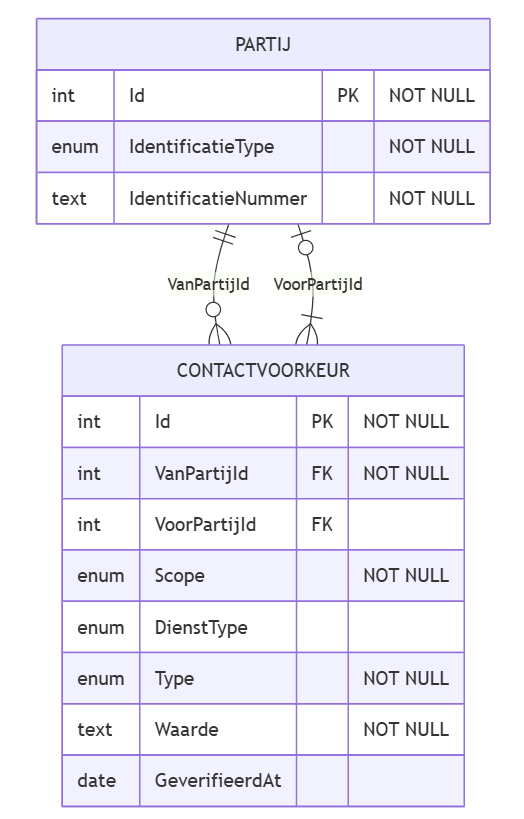
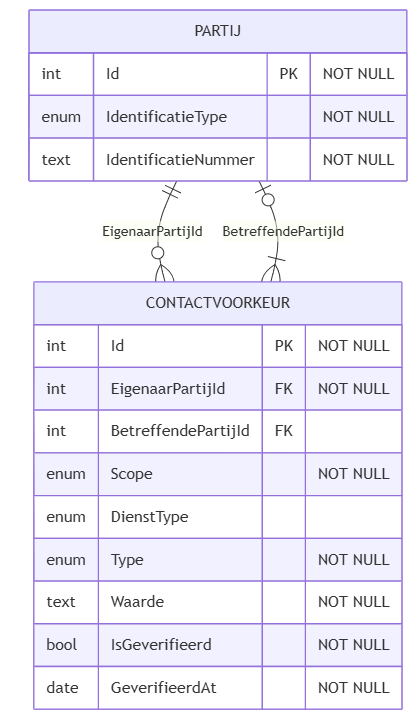
Van/Voor hernoemd
van/voor hernoemd naar eigenaar/betreffende

Changed region(s): [[0.0619, 0.0, 0.9905, 1.0]]

diff --git a/Docs/structurizr/profielservicedocs/06-software-architectuur.md b/Docs/structurizr/profielservicedocs/06-software-architectuur.md
@@ -23,17 +23,17 @@ Hieronder een tabel van definities die wij aanhouden binnen die entiteiten.
 
 <br/>
 
-| Attribuut       | Omschrijving                                                                           |
-| --------------- | -------------------------------------------------------------------------------------- |
-| CONTACTVOORKEUR |                                                                                        |
-| Id              | Unieke identificator van CONTACTVOORKEUR                                               |
-| VanPartijId     | Identificator van de eigenaar uit PARTIJ voor deze CONTACTVOORKEUR                     |
-| VoorPartijId    | Identificator op welke PARTIJ deze CONTACTVOORKEUR betrekking heeft                    |
-| Scope           | Het toepassingsgebied van deze CONTACTVOORKEUR, te weten: Burger of Zakelijk           |
-| DienstType      | Het organisatie-identificatienummer (OIN) waarop dit CONTACTVOORKEUR mogelijk kan zijn |
-| Type            | Het soort CONTACTVOORKEUR, te weten: e-mail of (mobiel) telefoonnummer                 |
-| Waarde          | De door de eigenaar opgegeven waarde voor het CONTACTVOORKEUR-Type                     |
-| GeverifieerdAt  | Datum waarop IsGeverifieerd voor het laatst is ingesteld                               |
+| Attribuut           | Omschrijving                                                                           |
+| ------------------- | -------------------------------------------------------------------------------------- |
+| CONTACTVOORKEUR     |                                                                                        |
+| Id                  | Unieke identificator van CONTACTVOORKEUR                                               |
+| EigenaarPartijId    | Identificator van de eigenaar uit PARTIJ voor deze CONTACTVOORKEUR                     |
+| BetreffendePartijId | Identificator op welke PARTIJ deze CONTACTVOORKEUR betrekking heeft                    |
+| Scope               | Het toepassingsgebied van deze CONTACTVOORKEUR, te weten: Burger of Zakelijk           |
+| DienstType          | Het organisatie-identificatienummer (OIN) waarop dit CONTACTVOORKEUR mogelijk kan zijn |
+| Type                | Het soort CONTACTVOORKEUR, te weten: e-mail of (mobiel) telefoonnummer                 |
+| Waarde              | De door de eigenaar opgegeven waarde voor het CONTACTVOORKEUR-Type                     |
+| GeverifieerdAt      | Datum waarop IsGeverifieerd voor het laatst is ingesteld                               |
 
 Het onderstaande diagram geeft de structuur van het gegevensmodel weer, inclusief de relaties tussen PARTIJ en CONTACTVOORKEUR.
 
@@ -51,8 +51,8 @@ Het onderstaande diagram geeft de structuur van het gegevensmodel weer, inclusie
 
         CONTACTVOORKEUR {
             int Id PK "NOT NULL"
-            int VanPartijId FK "NOT NULL"
-            int VoorPartijId FK ""
+            int EigenaarPartijId FK "NOT NULL"
+            int BetreffendePartijId FK ""
             enum Scope "NOT NULL"
             enum DienstType ""
             enum Type "NOT NULL"
@@ -62,8 +62,8 @@ Het onderstaande diagram geeft de structuur van het gegevensmodel weer, inclusie
         }
 
         %% Relationships
-        PARTIJ ||--o{ CONTACTVOORKEUR : "VanPartijId"
-        PARTIJ |o--|{ CONTACTVOORKEUR : "VoorPartijId"
+        PARTIJ ||--o{ CONTACTVOORKEUR : "EigenaarPartijId"
+        PARTIJ |o--|{ CONTACTVOORKEUR : "BetreffendePartijId"
 
 </details>
 
